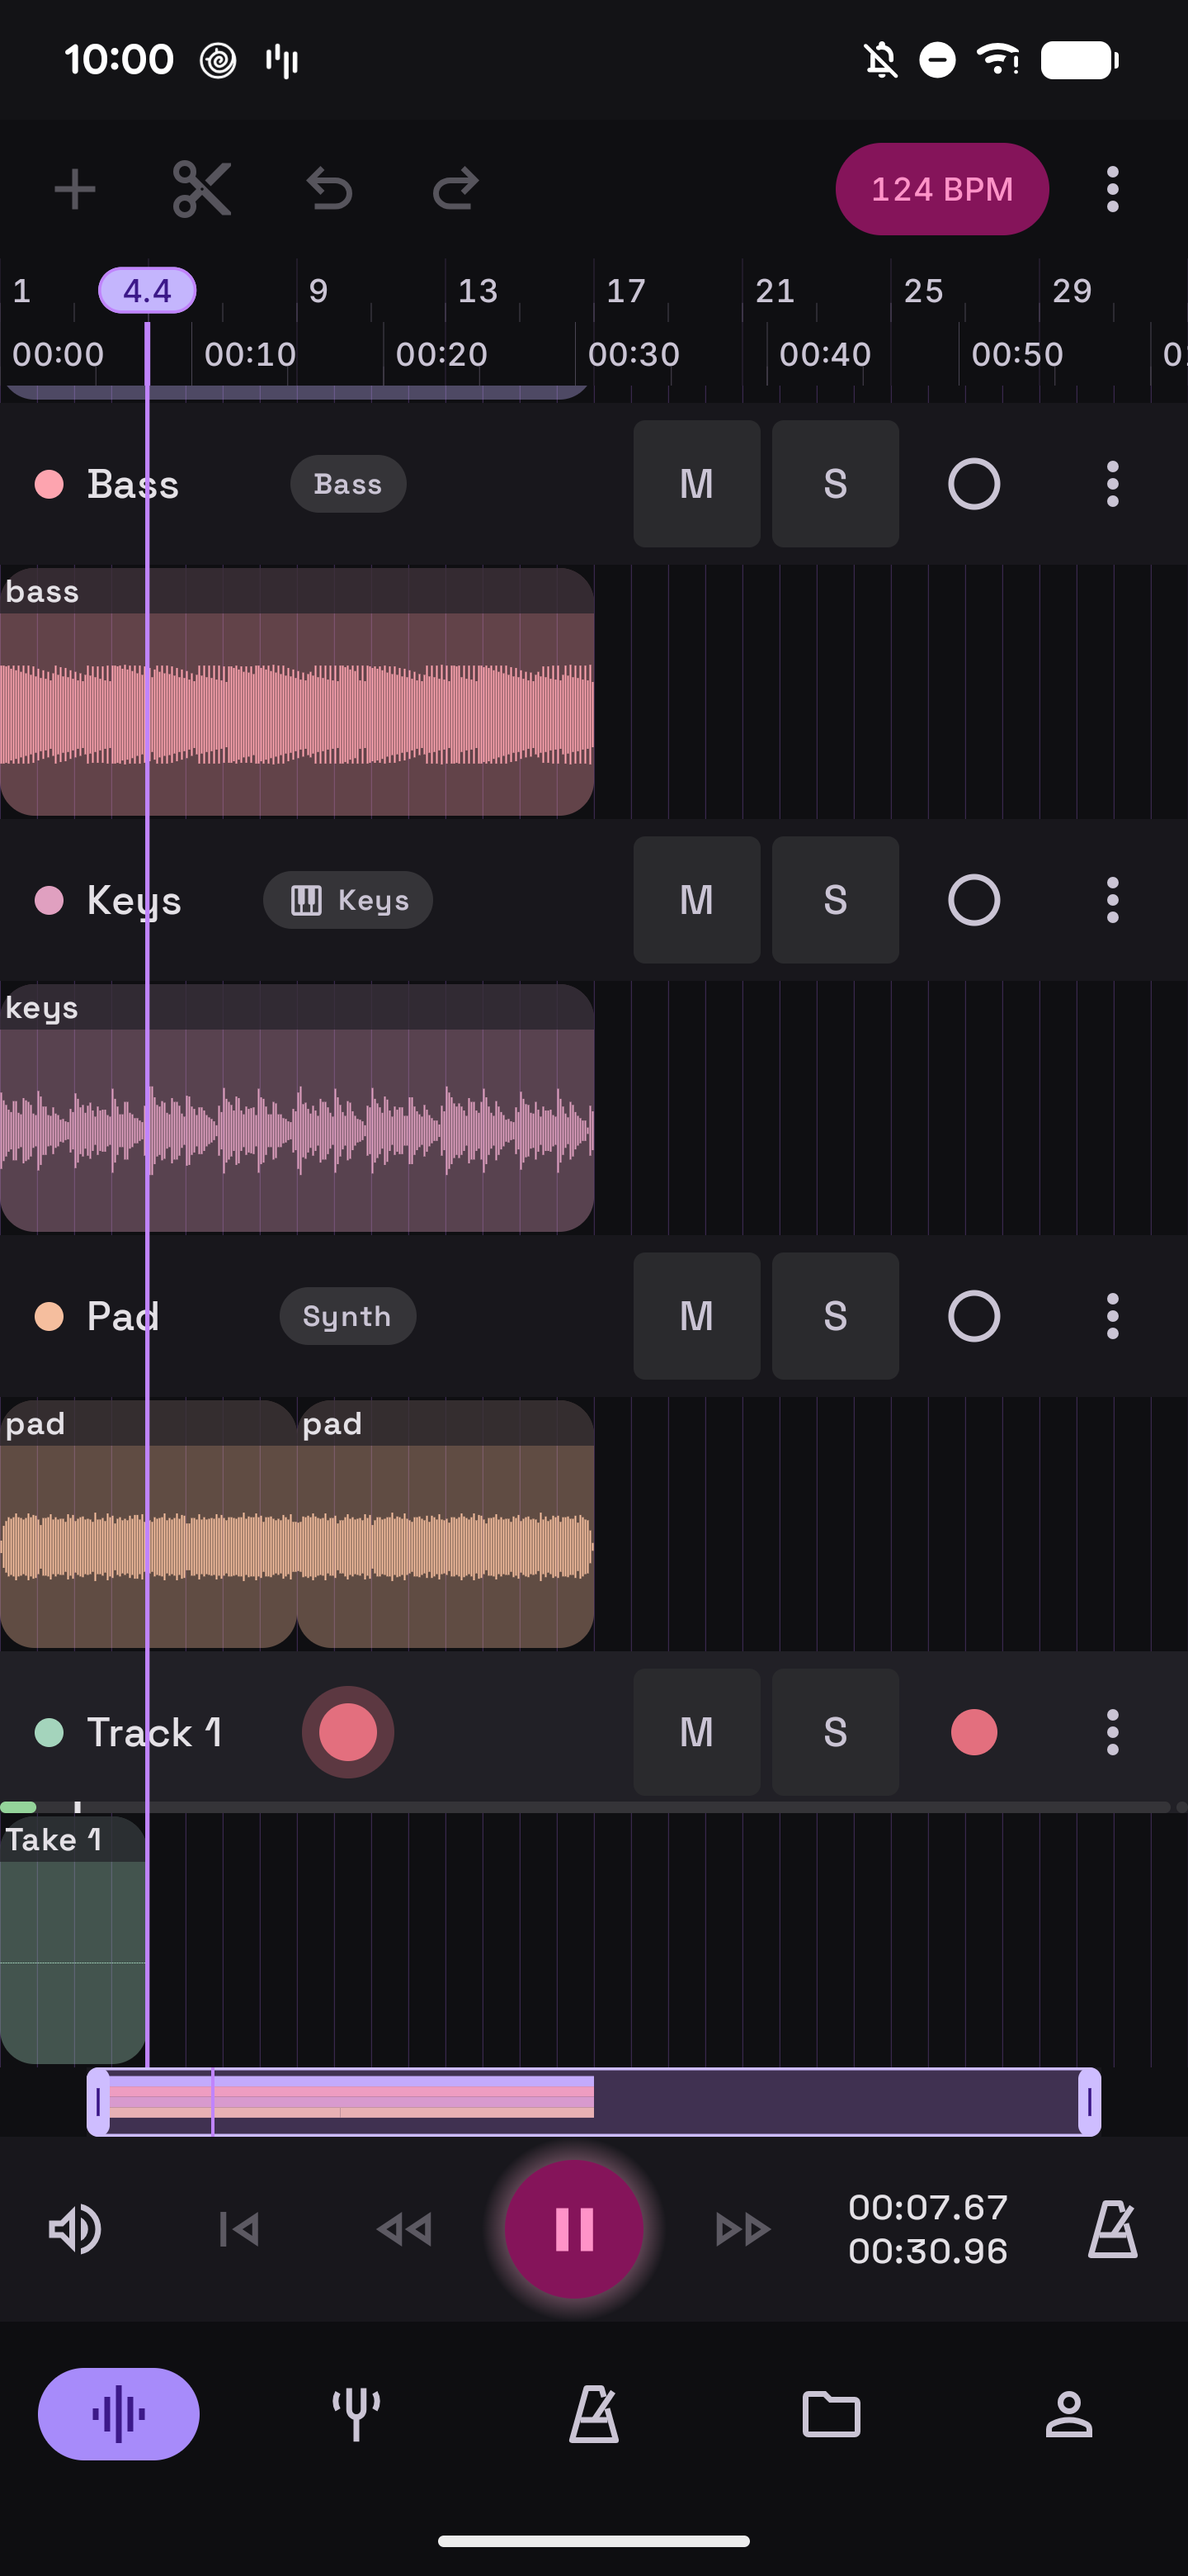
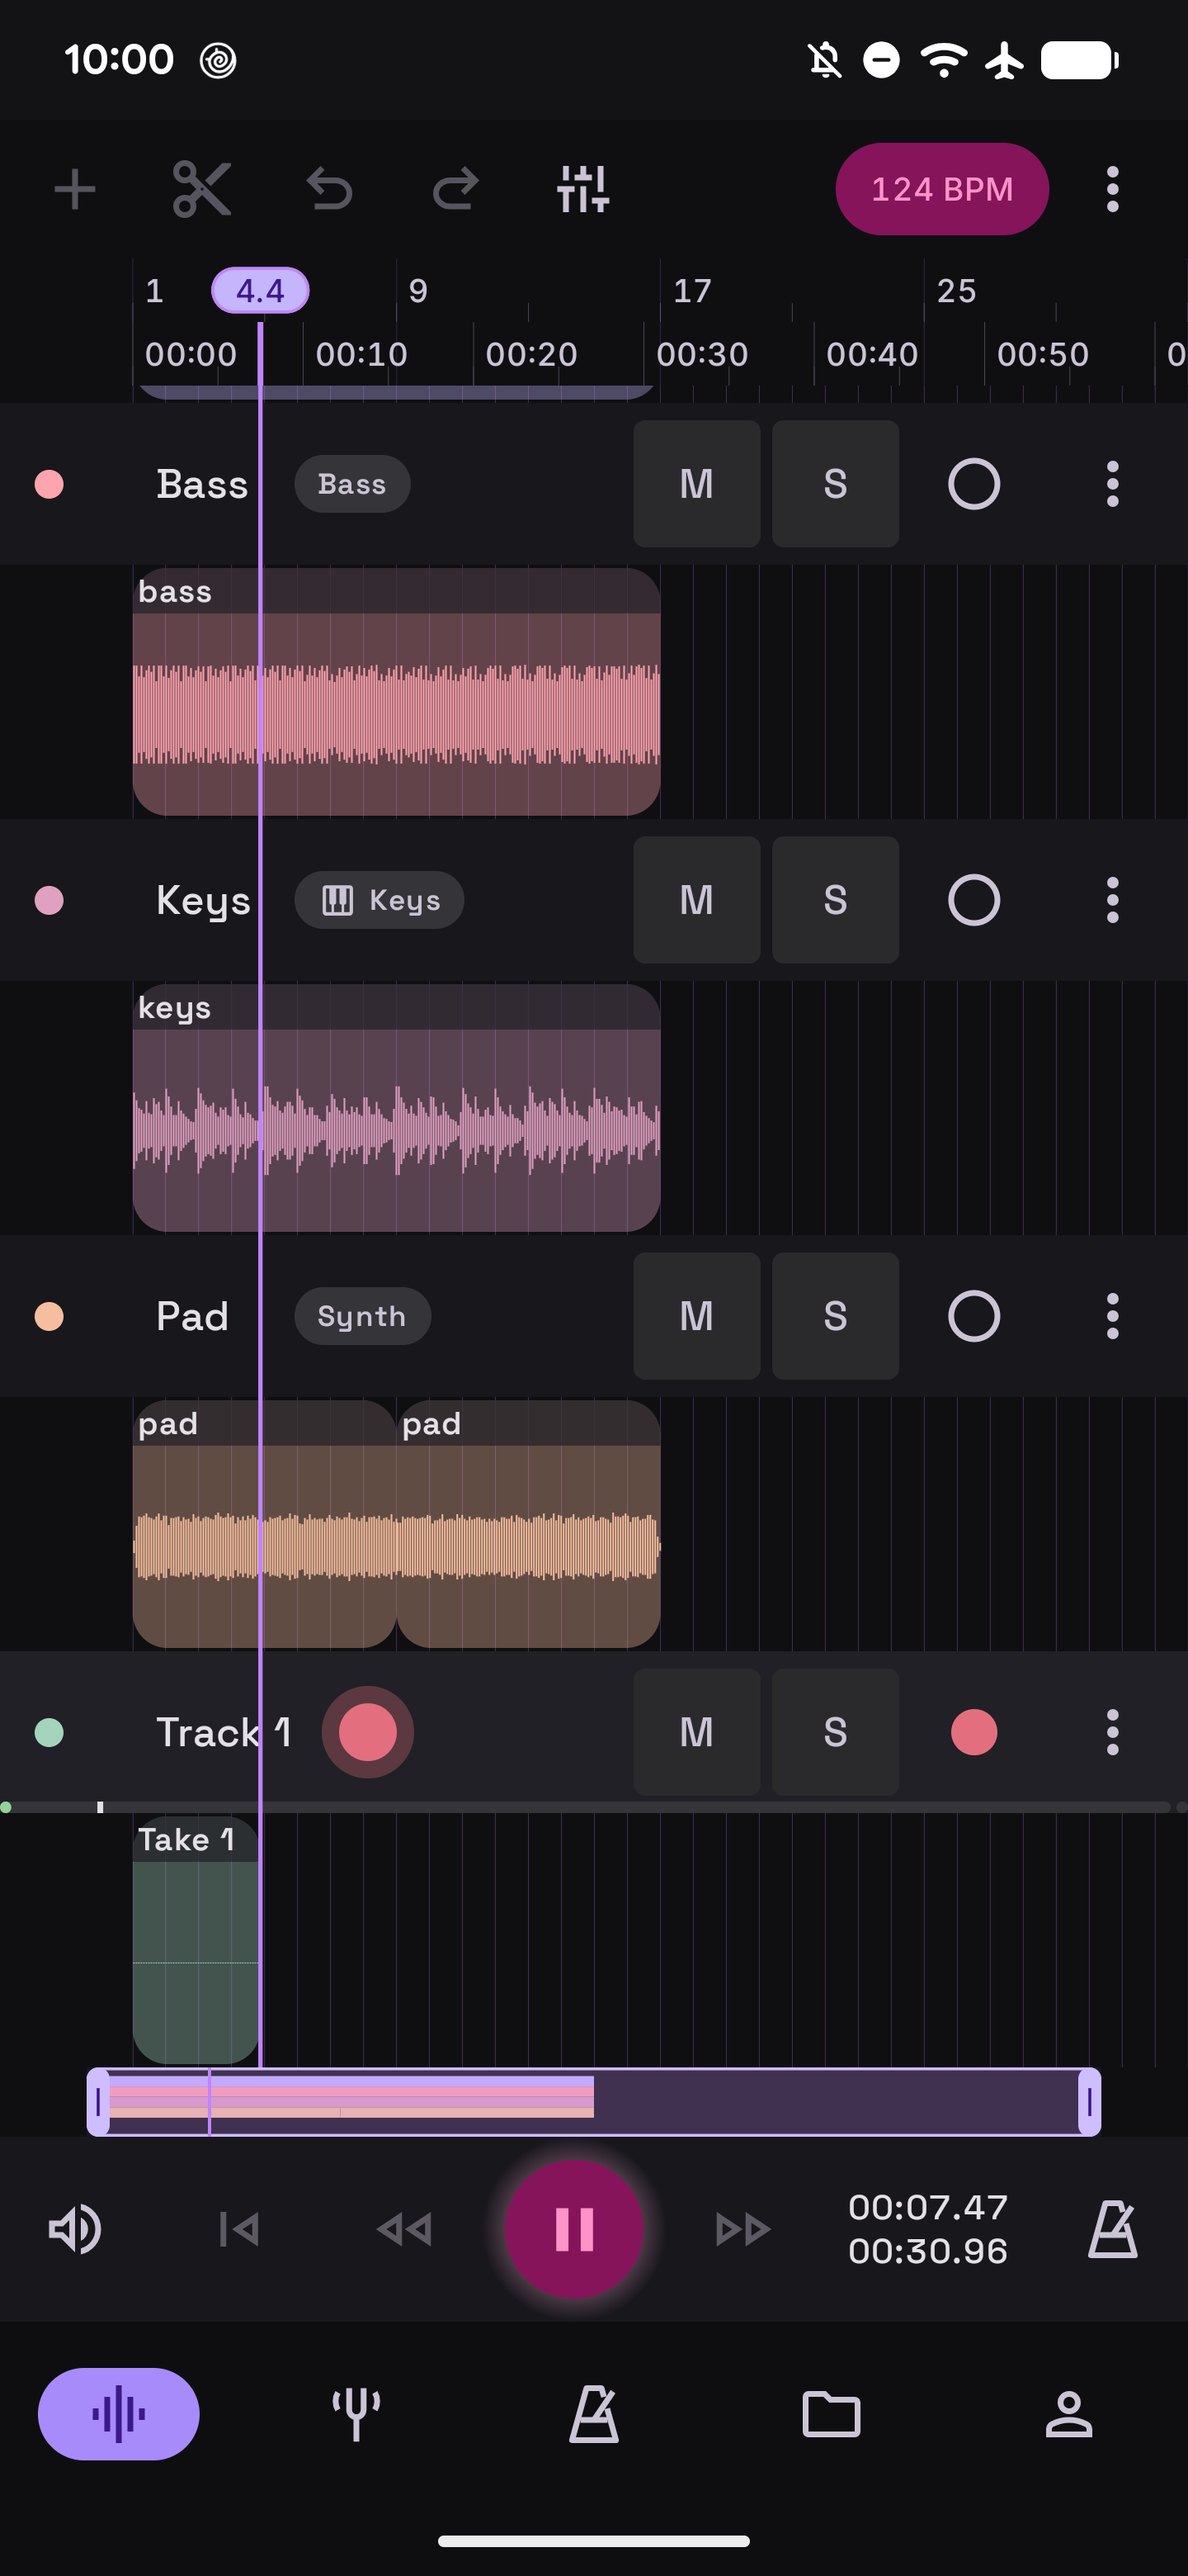
docs(timeline): the lead-in and the centred bar in spec 009, new screenshots
FR-004 and FR-016, the data model, the screen contract and T155 record the owner's
fixes of 2026-11-10; the README's screenshots show the current app.

diff --git a/specs/009-timeline-arranger/contracts/timeline-screen.md b/specs/009-timeline-arranger/contracts/timeline-screen.md
@@ -22,10 +22,10 @@ ui/timeline/
     TimelineRuler.kt           Canvas: bar row + time row (RulerLabels) only, playhead chip; leftSlot (expanded: the empty 200 dp over the header column); nothing overlays the canvas; tap/drag → onSeek/onScrub; hover time
     TempoPill.kt, RulerPill.kt "124 BPM" pill in the toolbar at every width → TempoDialog (D1; the ruler carries no pills)
     OverviewStrip.kt           the whole project, clip blocks, playhead, a draggable window whose edges zoom; between the lanes and the transport bar, composed unless the device hid it; inset outside the tagged node by margin (default the 16 dp page margin) plus the part of gestureInsets (default WindowInsets.systemGestures) its ancestors have not consumed: the rail, the Duo's end column and the header column consume what they cover (D1, T151, T153)
-    TrackList.kt               LazyColumn of TrackRow; vertical scroll; expanded inline settings row
+    TrackList.kt               LazyColumn of TrackRow; vertical scroll; expanded inline settings row; reports the lane width and the lead-in before 0:00 (the 24 dp `timelineLeadInMin`, or a page margin past the unconsumed back-gesture zone where that is more, FR-016)
     TrackRow.kt                header + lane in one row (header pinned in expanded layouts)
     TrackHeader.kt             expanded: colour dot, name, InstrumentChip, GainReadout, M, S, chevron, menu
-    TrackHeaderCompact.kt      compact: colour dot, name, chip, M, S, menu (56 dp)
+    TrackHeaderCompact.kt      compact: colour dot, name, chip, M, S, menu (56 dp); nameStart puts the name 8 dp past the lead-in, so the playhead at 0:00 falls between the dot and the name
     TrackLane.kt               Canvas: clips via ClipPainter; gestures (tap, long-press drag, plain drag → scroll)
     ClipPainter.kt             DrawScope extension: rounded block, caption band, waveform columns from WaveformOverview, selection outline, unavailable style
     PlayheadOverlay.kt         Canvas over ruler + lanes; reads telemetry in draw (PerfTrace.section(TIMELINE_PLAYHEAD_FRAME))
@@ -36,7 +36,7 @@ ui/timeline/
     MetronomeSettingsSheet.kt  ModalBottomSheet: the tempo read-only ("124 BPM, from the project") beside the project's TimeSignatureMenu (D1), ClickSoundPicker, SubdivisionTiles, AccentCells, StyleMenu
   TimelineKeyHandling.kt       a Modifier.onPreviewKeyEvent owner on the screen root mapping the FR-057 keys to callbacks (US8)
 ui/transport/
-  TransportBar.kt              (state: TransportUiState, callbacks, telemetry, modifier): MasterVolumeSlider, skip, step back, PlayPauseButton (metronome's), step forward, TimeReadout, MetronomeToggle
+  TransportBar.kt              (state: TransportUiState, callbacks, telemetry, modifier): MasterVolumeSlider, skip, step back, PlayPauseButton (metronome's), step forward, TimeReadout, MetronomeToggle; from 600 dp the controls sit together, centred in the bar (2026-11-10)
   TransportUiState.kt, TransportCallbacks.kt, TransportButton.kt, MasterVolumeSlider.kt, MetronomeToggle.kt
   MasterVolumePopup.kt         below 600 dp of bar width: the 44 dp speaker button ("80 percent") and the pop-up above the bar with the 200 dp slider and its percentage (D1)
   TimeReadout.kt               a Canvas: reads TransportTelemetry in draw and paints "mm:ss.hh / mm:ss.hh" with drawText in tabularTimecode (never a Text recomposed per frame); semantics text from the 10 Hz UiState value, announced at 1 Hz

diff --git a/specs/009-timeline-arranger/spec.md b/specs/009-timeline-arranger/spec.md
@@ -692,8 +692,9 @@ clips, overlaps or hides behind the transport bar.
   settings screen, above the navigation bar in compact windows and spanning the content width
   in expanded windows, and MUST contain, left to right: the master volume slider with its
   percentage, skip-to-start, step-back-one-bar, play/pause, step-forward-one-bar, the position
-  and length readout, and the metronome toggle. It MUST NOT contain a playback speed or loop
-  control.
+  and length readout, and the metronome toggle. On a bar 600 dp wide or more the controls MUST
+  stay together, centred in the bar (the owner's request of 2026-11-10). It MUST NOT contain a
+  playback speed or loop control.
 - **FR-005**: Play MUST start sound within 100 ms of the press from the playhead position, with
   every clip whose span contains that position starting mid-clip at the right point, and the
   button MUST show pause while playing. Pause MUST stop within 10 ms with a short fade so there
@@ -776,7 +777,13 @@ clips, overlaps or hides behind the transport bar.
 - **FR-016**: The timeline MUST scroll horizontally by drag, by the scroll wheel without the
   modifier and by a two-finger trackpad swipe; the track list MUST scroll vertically when the
   tracks exceed the height, with the ruler pinned at the top and, in expanded windows, the
-  headers pinned at the left.
+  headers pinned at the left. At rest the timeline MUST show a short empty lead-in before 0:00
+  (at least 24 dp, and at least 16 dp past any part of the system's back-gesture zone that
+  reaches the lanes; the owner's request of 2026-11-10), so the start can be reached without a
+  back swipe. The lead-in MUST scroll away with the clips, and a tap or drag on the ruler inside
+  it MUST land on 0:00. Where the headers are not pinned beside the lanes, the track name in the
+  strip above each lane MUST start past the 0:00 position, so the playhead at rest does not
+  cross it.
 - **FR-017**: The playhead, the clips and the waveforms MUST stay aligned with the ruler at
   every zoom level and scroll position, with no visible drift between the ruler's time row and
   the readout.

diff --git a/specs/009-timeline-arranger/data-model.md b/specs/009-timeline-arranger/data-model.md
@@ -70,7 +70,7 @@ opens; not persisted.
 
 | Type | Purpose |
 |---|---|
-| `TimelineViewport(pixelsPerBeat, scrollBeats, widthPx, densityScale)` | pure mapping beats ↔ x; `zoomAround(centreX, factor)`, `scrollBy(px)`, clamped to `[fitLevel, closestLevel]` (FR-015: whole project and ≥ 32 bars fit at the widest; one beat ≥ width at the closest) |
+| `TimelineViewport(pixelsPerBeat, scrollBeats, widthPx, densityScale, leadInPx)` | pure mapping beats ↔ x; `zoomAround(centreX, factor)`, `scrollBy(px)`, clamped to `[fitLevel, closestLevel]` (FR-015: whole project and ≥ 32 bars fit at the widest after the lead-in; one beat ≥ width at the closest); `scrollBeats` goes as low as `startScrollBeats`, the negative beat `leadInPx` before zero (FR-016) |
 | `RulerLabels` | FR-014: given a viewport, tempo map and width returns the bar-row labels (every Nth bar, N a power of two; bars; "bar.beat"; subdivisions to sixteenths), the time-row labels (minutes; seconds; tenths; hundredths) and the tick level below the labelled level; the rule: no two labels in a row closer than their width plus a gap |
 | `Snap` | `snap(beats, grid, signature)`; identity for `Off` |
 | `ClipHit` | resolves a tap at (x, y) in a lane to `Clip`, empty space, or the playhead marker |

diff --git a/specs/009-timeline-arranger/tasks.md b/specs/009-timeline-arranger/tasks.md
@@ -456,6 +456,11 @@ every target with zero warnings.
 - [ ] T154 At 360 dp the metronome sheet's "Standard" pill sits under the system's gesture handle at the bottom edge (seen
   in D1 and again in the captures after the zoom verdict): for the owner to decide whether the sheet clears the
   navigation-bar inset (`UI/timeline/components/MetronomeSettingsSheet.kt`)
+- [X] T155 The owner's fixes of 2026-11-10: a scrolling lead-in before 0:00 clear of the back-gesture zone (FR-016;
+  `TimelineViewport.leadInPx`, `TrackList` reports it; tests in `TimelineViewportTest`, `RulerLabelsTest`,
+  `TimelineViewModelTest`, `TimelineRulerTest`, `OverviewStripTest`, `PlaceAcrossLayoutsTest`), and the transport
+  bar's controls centred from 600 dp (`TransportBarTest.theWideBarCentresItsControls`), and the compact header's name
+  started past 0:00 so the playhead at rest does not cross it (FR-016; `TrackHeaderCompact.nameStart`, `TrackHeaderTest`)
 
 ---
 

diff --git a/README.md b/README.md
@@ -66,7 +66,7 @@ Guitar (6 or 7 strings, several tuning presets) and cello are supported.
 A library of your projects with search, filters and sorting. Rename a project, add a description or
 a key, duplicate it or delete it. Edits are saved automatically.
 
-<img src="docs/screenshots/projects-android-pixel6pro-library.png" width="240" alt="Projects library with search, filters and two project cards showing tempo, key, length and track count">
+<img src="docs/screenshots/projects-android-pixel6pro-library.png" width="240" alt="Projects library with search, filters and the demo project's card showing tempo, key, length and track count">
 
 ### Adaptive layout
 
